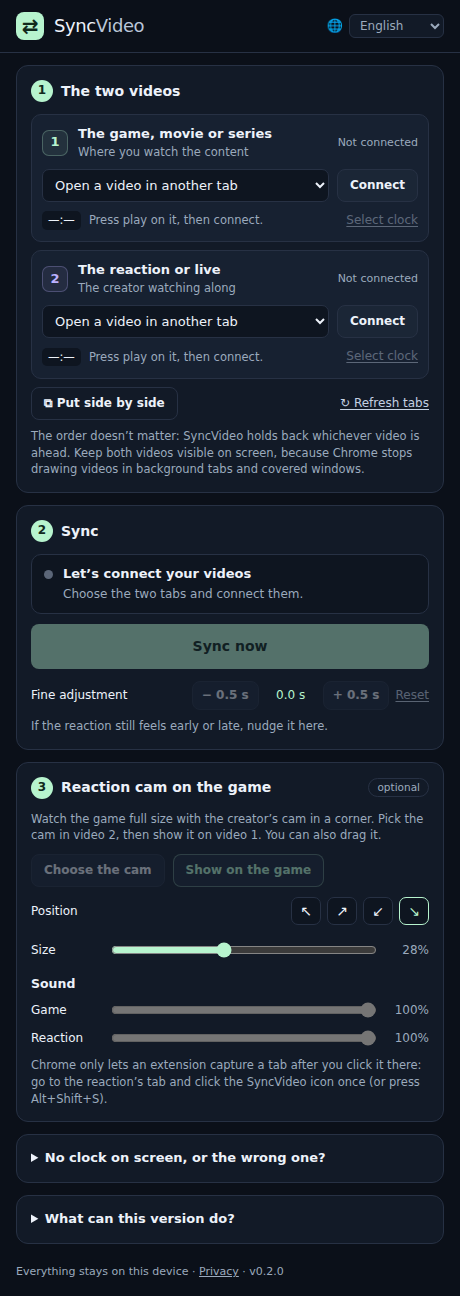
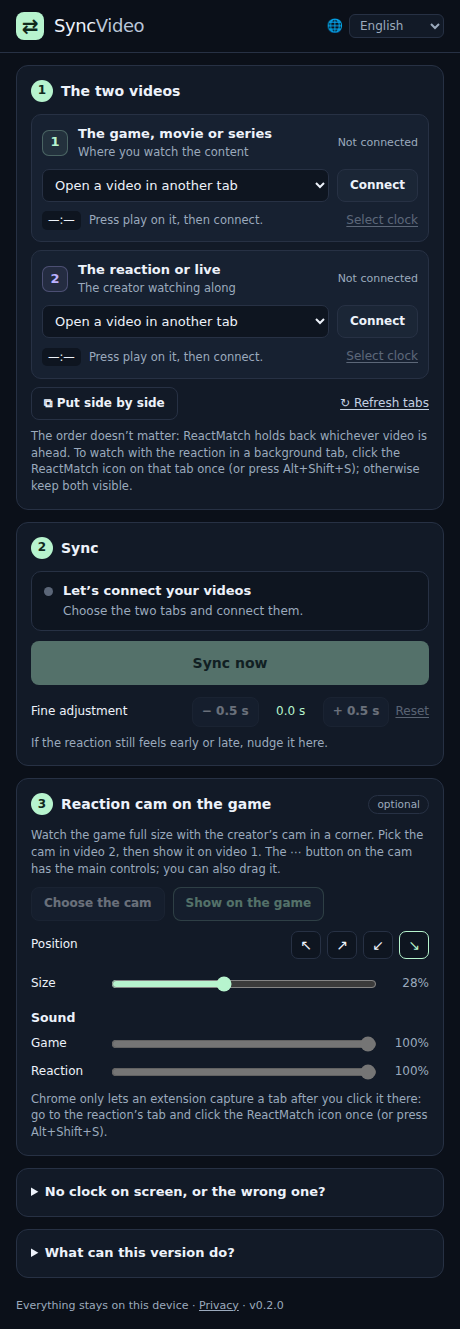
fix: keep the sync through halftime instead of jumping 45 minutes
Within one broadcast the relation between the two players doesn't change;
what changes at halftime is the clocks. A TV scoreboard restarts at "2T
00:00" while a creator's own clock goes on from 45:00, so the clocks came
back 45 minutes apart and the sync followed them.

OffsetLock (core.js) now turns clock readings into the offset to keep:
- once locked, readings only refine it;
- a lasting jump of whole minutes (at least 4) is a clock convention
  change: it's learned and subtracted, and the videos stay put;
- any other lasting jump (a creator restarting their clock late) keeps the
  videos where they are and offers "Follow the clocks", in the panel and on
  the cam's menu.
While the clocks are gone or stopped (the break, replays) the panel says so
and keeps the current sync.

Finding the clocks also searches the last frame in full, and never picks a
stream uptime (h:mm:ss) on its own: a clock missed in the first frame had
let a live's uptime be chosen.

diff --git a/extension/panel.js b/extension/panel.js
@@ -1,6 +1,6 @@
 import { BrowserAdapter } from './browser-adapter.js';
 import { DemoAdapter } from './demo-adapter.js';
-import { parseClock, formatTime, clockTarget, insideRanges, decideCorrection, ClockTracker, anchorFromClocks, AnchorEstimator, findClocks, regionAround, regionInTab } from './core.js';
+import { parseClock, formatTime, clockTarget, insideRanges, decideCorrection, ClockTracker, anchorFromClocks, OffsetLock, findClocks, regionAround, regionInTab } from './core.js';
 import { LocalOCR, loadImage, cropFrame, startTabCapture, selectRegion, scanClocks } from './ocr.js';
 import { t, setLang, getLang, detectLang, applyStatic, getLocale, LANGUAGES } from './i18n.js';
 
@@ -31,7 +31,11 @@ let hold = null, resumed = null, canHold = { reference: true, follower: true };
 // Last frame signature per side, to notice a picture that stopped updating.
 let frozen = { reference: { sig: null, since: 0 }, follower: { sig: null, since: 0 } };
 const ocr = new LocalOCR();
-const estimator = new AnchorEstimator();
+// Turns clock readings into a steady offset (see OffsetLock in core.js).
+const lock = new OffsetLock();
+let clocksSeenAt = 0;
+// A message that stays up for a while instead of the usual "in sync" line.
+let notice = null;
 let trackers = { reference: new ClockTracker(), follower: new ClockTracker() };
 
 const direction = () => Number($('direction').value);
@@ -55,7 +59,7 @@ function fail(error) {
 }
 function resetTrackers() {
   trackers = { reference: new ClockTracker(direction()), follower: new ClockTracker(direction()) };
-  estimator.reset();
+  lock.reset(); clocksSeenAt = 0; notice = null; showClockChoice(null);
   frozen = { reference: { sig: null, since: 0 }, follower: { sig: null, since: 0 } };
   lastOCR = 0;
 }
@@ -292,26 +296,50 @@ async function ocrTick(token, states) {
   const checks = roles.map(role => trackers[role].push(readings[role].value, readings[role].time * 1000, readings[role].confidence, 1));
   if (checks.some(check => !check.valid)) {
     if (anchor === null) status(t('status.confirming'), t(`reason.${checks.find(check => !check.valid).reason}`), 'warning');
+    // Halftime, a replay, a stopped clock: keep the offset we have.
+    else if (clocksSeenAt && performance.now() - clocksSeenAt > 15000) notice = { title: t('status.break'), detail: t('status.break.detail'), until: Infinity };
     return;
   }
-  const value = estimator.push(anchorFromClocks(
+  clocksSeenAt = performance.now();
+  if (notice?.until === Infinity) notice = null;
+  const out = lock.push(anchorFromClocks(
     { clock: readings.reference.value, time: readings.reference.time },
     { clock: readings.follower.value, time: readings.follower.time }, direction()));
-  if (value === null) return;
-  if (anchor === null) { setAnchor(states, value); return; }
-  if (Math.abs(value - anchor) > 30) {
-    // Most recent readings agree on a new relation (halftime, the creator
-    // reset their clock…): follow it rather than stopping.
-    status(t('status.reclock'), t('status.reclock.detail'), 'warning');
-    lastSeek = -Infinity;
+  if (out.anchor === null) return;
+  if (anchor === null) { setAnchor(states, out.anchor); return; }
+  anchor = out.anchor;
+  if (out.event === 'period') notice = { title: t('status.period'), detail: t('status.period.detail', { m: Math.abs(out.minutes) }), until: performance.now() + 20000 };
+  showClockChoice(out.event === 'pending' ? out.diff : null);
+}
+
+// The clocks moved apart in a way the videos can't have (the creator restarted
+// their clock late, say). Keep the sync, and offer to follow the clocks.
+function showClockChoice(diff) {
+  const button = $('status-action');
+  if (!button) return;
+  const label = diff === null ? null : t('clock.useNew', { s: seconds(diff) });
+  button.hidden = diff === null;
+  if (label) {
+    button.textContent = label;
+    status(t('status.clockMoved'), t('status.clockMoved.detail', { s: seconds(diff) }), 'warning');
   }
-  anchor = value;
+  if (cam.on && label !== cam.actionLabel) {
+    cam.actionLabel = label;
+    inMainTab(action => globalThis.__syncVideoPip?.set({ action }), label).catch(() => {});
+  }
+}
+function acceptNewClock() {
+  if (!lock.pending) return;
+  anchor = lock.accept();
+  lastSeek = -Infinity;
+  showClockChoice(null);
+  status(t('status.started'), t('status.started.ocr'), 'active');
 }
 
 // ---- Keeping the videos together -------------------------------------------
 
 async function applyTarget(target, states, token) {
-  const result = decideCorrection({ target, ...states, tolerance: currentKind === 'ocr' ? (estimator.values.length >= 6 ? 0.7 : 1) : 0.85, lastSeek, now: performance.now(), canHold });
+  const result = decideCorrection({ target, ...states, tolerance: currentKind === 'ocr' ? (lock.estimator.values.length >= 6 ? 0.7 : 1) : 0.85, lastSeek, now: performance.now(), canHold });
   if (token !== revision || !running) return;
   if (result.action === 'hold') {
     const paused = await adapter.command(sources[result.role], 'pause');
@@ -328,7 +356,8 @@ async function applyTarget(target, states, token) {
     status(t('status.adjusting', { side: sideName(result.role) }), t('status.adjusting.detail', { s: seconds(moved) }), 'active');
   } else if (result.action === 'aligned') {
     $('arrange').classList.remove('attention');
-    status(t('status.synced'), t('status.synced.detail', { s: `${number(Math.abs(result.error))} s` }) + (demo ? ` · ${t('demo.tag')}` : ''), 'active');
+    if (notice && performance.now() < notice.until) status(notice.title, notice.detail, 'active');
+    else status(t('status.synced'), t('status.synced.detail', { s: `${number(Math.abs(result.error))} s` }) + (demo ? ` · ${t('demo.tag')}` : ''), 'active');
   } else if (result.action === 'unavailable' && roles.some(role => !canHold[role])) {
     showJumped(roles.find(role => !canHold[role]));
   } else status(result.action === 'unavailable' ? t('status.unavailable') : t('status.waiting'), t(`reason.${result.reason}`), 'warning');
@@ -443,11 +472,13 @@ async function detect(sidesToCheck, token) {
     if (list.some(shot => shot.paused)) { result[role] = { error: 'paused' }; continue; }
     // The video played but the picture never changed: hidden tab or covered window.
     if (list.every(shot => shot.sig === list[0].sig) && list.at(-1).time - list[0].time > 1.5) { result[role] = { error: 'hidden' }; continue; }
-    // Only lines that held a clock on the first frame are read again later.
+    // The first and last frames are searched in full (a clock missed once is
+    // still found); the middle one only where those found clocks.
     const first = await scanClocks(ocr, list[0].image);
-    const lines = [...new Set(first.map(token => token.line))];
-    const frames = [{ time: list[0].time, tokens: first }];
-    for (const shot of list.slice(1)) frames.push({ time: shot.time, tokens: lines.length ? await scanClocks(ocr, shot.image, lines) : [] });
+    const last = await scanClocks(ocr, list[2].image);
+    const lines = [...new Set([...first, ...last].map(token => token.line))];
+    const middle = lines.length ? await scanClocks(ocr, list[1].image, lines) : [];
+    const frames = [{ time: list[0].time, tokens: first }, { time: list[1].time, tokens: middle }, { time: list[2].time, tokens: last }];
     if (token !== revision) return null;
     result[role] = { clocks: findClocks(frames), last: list.at(-1) };
   }
@@ -455,8 +486,9 @@ async function detect(sidesToCheck, token) {
 }
 
 const regionOf = (clock, shot) => regionAround(clock.box, shot.width / shot.height);
-// One clear clock: the only mm:ss that ticks (an uptime in h:mm:ss doesn't compete).
-const clearChoice = clocks => clocks.length && clocks.filter(clock => clock.parts === clocks[0].parts).length === 1 ? clocks[0] : null;
+// One clear clock: the only mm:ss that ticks. An uptime in h:mm:ss doesn't
+// compete, and is never picked on its own (a live always shows one).
+const clearChoice = clocks => clocks.length && clocks[0].parts === 2 && clocks.filter(clock => clock.parts === 2).length === 1 ? clocks[0] : null;
 
 function useVideoRegion(role, region, label) {
   dropCapture(role);
@@ -481,7 +513,9 @@ async function pickOnStill(role, token, found) {
     still = screen.video;
   } else still = await loadImage(shot.image);
   const options = shot ? clocks.map(clock => ({ label: clock.text, region: regionOf(clock, shot) })) : [];
-  const region = await selectRegion($('crop-dialog'), still, { suggested: options[0]?.region || null, options, track: screen?.stream.getVideoTracks()[0] });
+  // No clock moving at all: often halftime, or a break in the broadcast.
+  const note = found?.clocks && !found.clocks.length ? t('crop.noTicking') : '';
+  const region = await selectRegion($('crop-dialog'), still, { suggested: options[0]?.region || null, options, track: screen?.stream.getVideoTracks()[0], note });
   if (!region || token !== revision) {
     screen?.stream.getTracks().forEach(track => track.stop());
     return false;
@@ -590,8 +624,9 @@ async function start() {
   if (error) throw error.reason;
   running = true; revision++; resetTrackers(); updateControls();
   if (currentKind === 'ocr') {
-    for (const value of seeds) estimator.push(value);
-    if (estimator.value() !== null) setAnchor(states, estimator.value());
+    let out = null;
+    for (const value of seeds) out = lock.push(value);
+    if (out?.anchor != null) setAnchor(states, out.anchor);
   }
   seeds = [];
   status(t('status.started'), currentKind === 'ocr' ? t('status.started.ocr') : t('status.started.timeline'), 'active');
@@ -770,12 +805,17 @@ chrome.runtime?.onMessage?.addListener(message => {
     const role = roles.find(r => sources[r]?.tabId === message.tabId);
     if (!role) return;
     if (role === 'follower' && cam.wanted) showCam().catch(fail);
-    else keepDrawing(role).then(ok => { if (ok) status(t('status.background', { side: sideName(role) }), t('status.background.detail'), 'active'); });
+    else keepDrawing(role).then(ok => {
+      if (!ok) return;
+      notice = { title: t('status.background', { side: sideName(role) }), detail: t('status.background.detail'), until: performance.now() + 8000 };
+      status(notice.title, notice.detail, 'active');
+    });
     return;
   }
   if (message?.type !== 'syncvideo-pip') return;
   const { action, value } = message;
   if (action === 'resync') resync().catch(fail);
+  else if (action === 'accept-clock') acceptNewClock();
   else if (action === 'close') hideCam().catch(fail);
   else if (action === 'ended') { cam.on = false; updateControls(); }
   else if (action === 'corner') { cam.corner = value; cam.free = null; updateControls(); }
@@ -831,6 +871,7 @@ for (const role of roles) {
 }
 listenCam();
 listen('refresh', refreshTabs);
+listen('status-action', acceptNewClock);
 listen('arrange', arrange);
 $('direction').addEventListener('change', () => { stop(false); clearAnchor(); status(t('status.direction'), t('status.direction.detail')); });
 listen('pause-both', async () => {

diff --git a/extension/pip.js b/extension/pip.js
@@ -87,6 +87,7 @@
     .dot.active{background:#b7f4ce}.dot.warning{background:#f3d991}.dot.error{background:#ffb59b}
     button.action{display:flex;align-items:center;gap:8px;width:100%;padding:8px 10px;border-radius:8px;border:1px solid #b7f4ce55;background:#b7f4ce14;color:#b7f4ce;font-size:12px;font-weight:600;cursor:pointer}
     button.action.quiet{border-color:#273144;background:transparent;color:#c4d1e3}
+    button.action[hidden]{display:none}
     button.action:hover{filter:brightness(1.2)}
     .row{display:flex;align-items:center;gap:8px}
     .row input[type=range]{flex:1;min-width:0;accent-color:#b7f4ce}
@@ -110,6 +111,8 @@
     const box = el('div', { class: 'box' }, [canvas, open]);
 
     const dot = el('span', { class: 'dot' });
+    // Shown when the clocks moved apart and the viewer may want to follow them.
+    const clockChoice = el('button', { class: 'action quiet', type: 'button', 'data-action': 'accept-clock', hidden: '' });
     const statusText = el('span');
     const range = (name, min, max) => el('input', { type: 'range', min, max, 'aria-label': labels[name], 'data-name': name });
     const gameRange = range('game', 0, 100), reactRange = range('react', 0, 100), sizeRange = range('size', 12, 50);
@@ -119,6 +122,7 @@
     const menu = el('div', { class: 'menu', role: 'dialog', 'aria-label': labels.menu, hidden: '' }, [
       el('div', { class: 'status' }, [dot, statusText]),
       el('button', { class: 'action', type: 'button', 'data-action': 'resync' }, [icon('resync'), labels.resync]),
+      clockChoice,
       el('div', { class: 'row', title: labels.game }, [icon('game'), gameRange, gameOut]),
       el('div', { class: 'row', title: labels.react }, [icon('react'), reactRange, reactOut]),
       el('div', { class: 'row' }, [el('span', { class: 'label' }, [labels.position]), el('div', { class: 'corners' }, corners)]),
@@ -127,7 +131,7 @@
     ]);
     shadow.append(el('style', {}, [CSS]), box, menu);
     document.documentElement.append(host);
-    return { host, box, canvas, open, menu, dot, statusText, gameRange, reactRange, sizeRange, gameOut, reactOut, sizeOut, corners };
+    return { host, box, canvas, open, menu, dot, statusText, clockChoice, gameRange, reactRange, sizeRange, gameOut, reactOut, sizeOut, corners };
   }
 
   function show(host) {
@@ -232,6 +236,7 @@
     ui.menu.addEventListener('click', event => {
       const action = event.target.closest?.('[data-action]')?.dataset.action;
       if (action === 'resync') tell('resync');
+      if (action === 'accept-clock') tell('accept-clock');
       if (action === 'close') tell('close');
       const corner = event.target.closest?.('[data-corner]')?.dataset.corner;
       if (corner) { pip.corner = corner; renderControls(); place(); tell('corner', corner); }
@@ -273,6 +278,10 @@
     if (Number.isFinite(options.volume)) { pip.volumes.react = options.volume; pip.gain.gain.value = options.volume; }
     if (Number.isFinite(options.mainVolume)) pip.volumes.main = options.mainVolume;
     if (options.status) pip.status = options.status;
+    if ('action' in options) {
+      pip.ui.clockChoice.hidden = !options.action;
+      pip.ui.clockChoice.textContent = options.action || '';
+    }
     renderControls();
     place();
   }

diff --git a/extension/core.js b/extension/core.js
@@ -180,6 +180,65 @@ export class AnchorEstimator {
   }
 }
 
+// A jump between the two clocks that is a whole number of minutes, and at
+// least 4, is a change of clock convention, not of the videos: one clock
+// restarts at 00:00 for the second half while the other goes on from 45:00,
+// or periods of 10, 12, 15 or 20 minutes are counted differently.
+export function isPeriodShift(diff) {
+  return Math.abs(diff) >= 240 && Math.abs(diff - Math.round(diff / 60) * 60) <= 20;
+}
+
+// Turns raw offset estimates (one per pair of clock readings) into the offset
+// to keep, steadily. Once locked, the offset only gets refined: within one
+// broadcast, the relation between the two players doesn't change, so a jump
+// in what the clocks say is about the clocks (halftime, a creator restarting
+// their own clock late), not the videos.
+//  - jumps of whole minutes (period conventions) are learned and subtracted;
+//  - any other lasting jump is reported as `pending`, for the viewer to accept.
+export class OffsetLock {
+  constructor({ refine = 1.5, confirm = 3 } = {}) {
+    this.refine = refine; this.confirm = confirm;
+    this.estimator = new AnchorEstimator();
+    this.reset();
+  }
+  reset() { this.anchor = null; this.shift = 0; this.pending = null; this.estimator.reset(); }
+  push(raw) {
+    if (!Number.isFinite(raw)) return { anchor: this.anchor, event: null };
+    const value = raw - this.shift;
+    if (this.anchor === null) {
+      this.anchor = this.estimator.push(value);
+      return { anchor: this.anchor, event: this.anchor === null ? null : 'locked' };
+    }
+    const diff = value - this.anchor;
+    if (Math.abs(diff) <= this.refine) {
+      this.pending = null;
+      this.anchor = this.estimator.push(value) ?? this.anchor;
+      return { anchor: this.anchor, event: 'refined' };
+    }
+    if (this.pending && Math.abs(diff - this.pending.diff) <= this.refine) {
+      this.pending.count += 1;
+      this.pending.diff += (diff - this.pending.diff) / this.pending.count;
+    } else this.pending = { diff, count: 1 };
+    if (this.pending.count < this.confirm) return { anchor: this.anchor, event: null };
+    if (isPeriodShift(this.pending.diff)) {
+      const minutes = Math.round(this.pending.diff / 60);
+      this.shift += minutes * 60;
+      this.pending = null;
+      return { anchor: this.anchor, event: 'period', minutes };
+    }
+    return { anchor: this.anchor, event: 'pending', diff: this.pending.diff };
+  }
+  // The viewer says the new relation is the right one.
+  accept() {
+    if (!this.pending) return this.anchor;
+    this.anchor += this.pending.diff;
+    this.pending = null;
+    this.estimator.reset();
+    for (let i = 0; i < this.estimator.need; i++) this.estimator.push(this.anchor);
+    return this.anchor;
+  }
+}
+
 export class ClockTracker {
   constructor(direction = 1) { this.direction = direction; this.reset(); }
   reset() { this.previous = null; this.good = 0; this.unreadable = 0; }

diff --git a/tests/core.test.js b/tests/core.test.js
@@ -1,6 +1,6 @@
 import test from 'node:test';
 import assert from 'node:assert/strict';
-import { parseClock, clockFromOCR, clockTarget, decideCorrection, ClockTracker, anchorFromClocks, AnchorEstimator, clockTokens, findClocks, regionAround, regionInTab } from '../extension/core.js';
+import { parseClock, clockFromOCR, clockTarget, decideCorrection, ClockTracker, anchorFromClocks, AnchorEstimator, clockTokens, findClocks, regionAround, regionInTab, OffsetLock, isPeriodShift } from '../extension/core.js';
 import { textBoxes } from '../extension/finder.js';
 
 test('reads long timers and hours; rejects invalid seconds and ambiguous OCR', () => {
@@ -141,4 +141,37 @@ test('a region of the video is found in a capture of the whole tab, letterbox in
   assert.ok(Math.abs(r.y - (50 + 118.75) / 900) < 1e-9 && Math.abs(r.h - 281.25 / 900) < 1e-9);
   const off = regionInTab({ ...layout, rect: { x: 900, y: 50, width: 1000, height: 562.5 } }, { x: 0.5, y: 0, w: 0.5, h: 0.5 });
   assert.equal(off.x, 1);
+});
+
+test('halftime: a clock that restarts at 00:00 while the other goes on is not a jump of the videos', () => {
+  assert.equal(isPeriodShift(-2700), true);
+  assert.equal(isPeriodShift(2712), true);
+  assert.equal(isPeriodShift(-720), true);
+  assert.equal(isPeriodShift(40), false);
+  assert.equal(isPeriodShift(-95), false);
+  const lock = new OffsetLock();
+  for (const raw of [-20.2, -19.8, -20.1]) lock.push(raw);
+  assert.ok(Math.abs(lock.anchor + 20) < 0.3);
+  // Second half: the game shows 2T 00:10 while the creator's clock shows 45:10.
+  const events = [-2720, -2720.3, -2719.8].map(raw => lock.push(raw).event);
+  assert.deepEqual(events, [null, null, 'period']);
+  assert.ok(Math.abs(lock.anchor + 20) < 0.3, 'the videos stay where they were');
+  // Later readings in the new convention just refine the same offset.
+  assert.equal(lock.push(-2720.1).event, 'refined');
+  assert.ok(Math.abs(lock.anchor + 20) < 0.3);
+});
+
+test('a creator restarting their clock late is reported, not followed, until accepted', () => {
+  const lock = new OffsetLock();
+  for (const raw of [-20, -20, -20]) lock.push(raw);
+  lock.push(-60); lock.push(-60.4);
+  const out = lock.push(-59.8);
+  assert.equal(out.event, 'pending');
+  assert.ok(Math.abs(out.diff + 40) < 0.5);
+  assert.equal(lock.anchor, -20);
+  assert.ok(Math.abs(lock.accept() + 60) < 0.5);
+  assert.equal(lock.push(-60.2).event, 'refined');
+  // One bad reading doesn't count as a change.
+  assert.equal(lock.push(-75).event, null);
+  assert.equal(lock.push(-60).event, 'refined');
 });

diff --git a/extension/panel.html b/extension/panel.html
@@ -36,7 +36,7 @@
 
     <section class="step" aria-labelledby="step2">
       <h2 id="step2"><span class="num">2</span> <span data-i18n="step.sync"></span></h2>
-      <div class="status"><span id="status-dot" class="dot"></span><div><strong id="status-title" data-i18n="status.welcome"></strong><p id="status-detail" role="status" aria-live="polite" data-i18n="status.welcome.detail"></p></div></div>
+      <div class="status"><span id="status-dot" class="dot"></span><div><strong id="status-title" data-i18n="status.welcome"></strong><p id="status-detail" role="status" aria-live="polite" data-i18n="status.welcome.detail"></p><button id="status-action" class="button small" hidden></button></div></div>
       <button id="start" class="button primary" disabled data-i18n="start.start"></button>
       <div class="fine" role="group" data-i18n-aria-label="fine.label"><span data-i18n="fine.title"></span><button id="trim-minus" class="button small" disabled data-i18n-aria-label="fine.minus">− 0.5 s</button><output id="trim-value">0.0 s</output><button id="trim-plus" class="button small" disabled data-i18n-aria-label="fine.plus">+ 0.5 s</button><button id="trim-reset" class="link" disabled data-i18n="fine.reset"></button></div>
       <p class="hint" data-i18n="fine.sub"></p>

diff --git a/extension/ocr.js b/extension/ocr.js
@@ -129,7 +129,7 @@ export async function startTabCapture() {
 // <video> or a canvas). Resolves to a region in 0..1 coordinates, or null.
 // `suggested` pre-selects a region, e.g. one found automatically.
 // `options` lists other clocks found ({ label, region }), shown as buttons.
-export async function selectRegion(dialog, still, { suggested = null, options = [], track = null } = {}) {
+export async function selectRegion(dialog, still, { suggested = null, options = [], track = null, note = '' } = {}) {
   const sourceWidth = still.videoWidth || still.naturalWidth || still.width;
   const sourceHeight = still.videoHeight || still.naturalHeight || still.height;
   const canvas = document.querySelector('#crop-canvas');
@@ -143,7 +143,7 @@ export async function selectRegion(dialog, still, { suggested = null, options = 
   const save = document.querySelector('#crop-save');
   const description = document.querySelector('#crop-description');
   save.disabled = !region;
-  description.textContent = region ? t('crop.found') : t('crop.none');
+  description.textContent = region ? t('crop.found') : (note || t('crop.none'));
   function render() {
     context.drawImage(frozen, 0, 0);
     if (!region) return;

diff --git a/extension/styles.css b/extension/styles.css
@@ -88,3 +88,4 @@ dialog::backdrop{background:#000a}
 .slider input{padding:0;accent-color:var(--accent)}
 .slider output{text-align:right;font-variant-numeric:tabular-nums;color:var(--muted)}
 h3.sub{margin:14px 0 2px;font-size:12.5px}
+#status-action{margin-top:8px}
